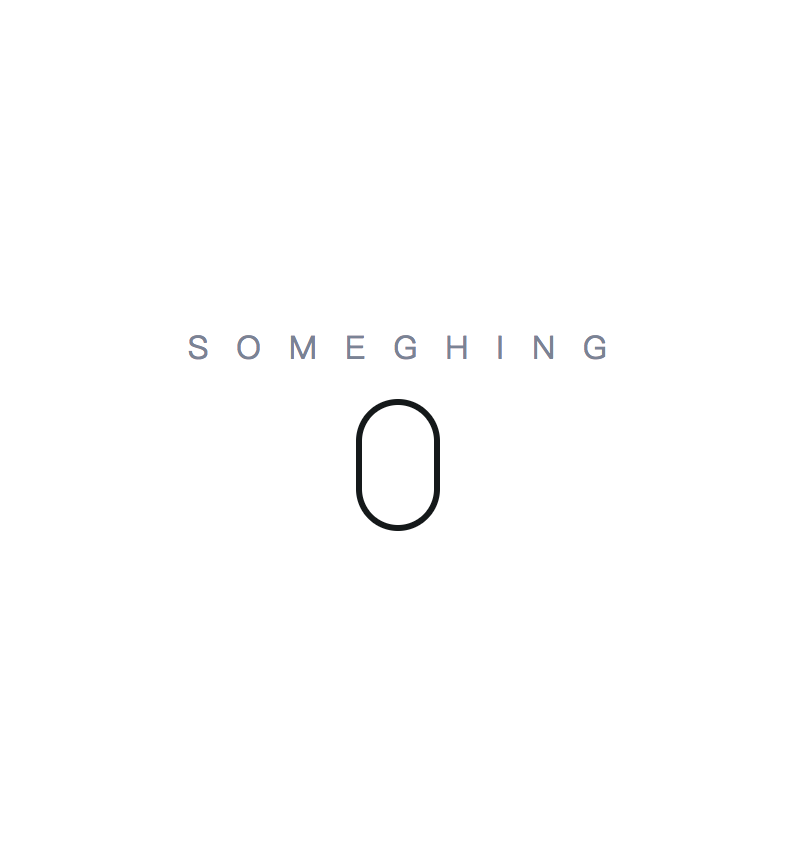
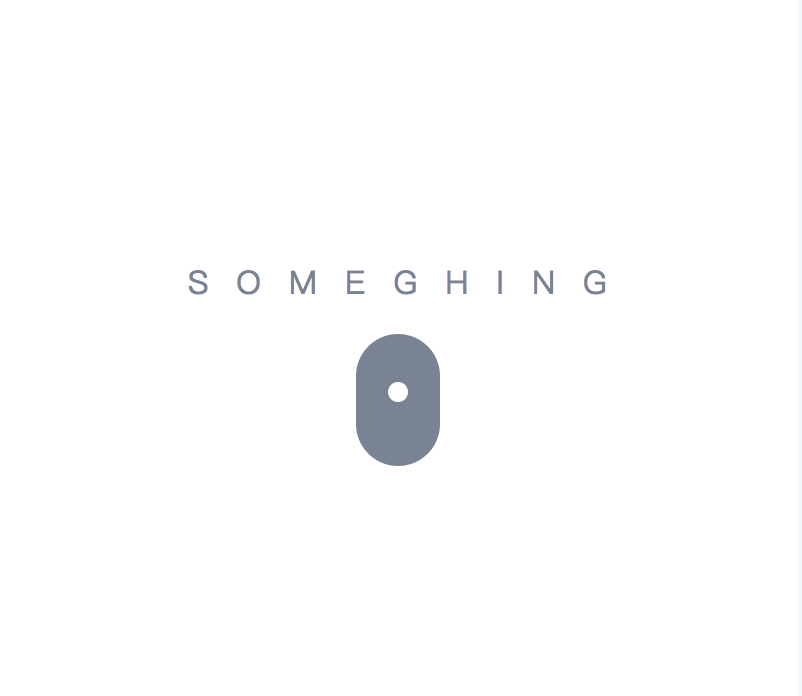
exe-10 - button-circle

diff --git a/exercise/exercise-10/exercise-10.css b/exercise/exercise-10/exercise-10.css
@@ -68,20 +68,44 @@ body {
     width: 36px;
     height: 60px;
     border-radius: 18px;
-    background: #fff;
+    background: rgba(0, 0, 0, 0);
     cursor: pointer;
-    box-shadow: 0 0 0 3px #15191A;
-}
-.button-right {
-    background: #7A8394;
-}
-.button-left:hover {
-    background: #15191A;
     box-shadow: 0 0 0 3px #fff;
 }
-.button-right:hover {
+.button-right {
+    box-shadow: 0 0 0 3px #7A8394;
+}
+.button-left:hover {
     background: #fff;
-    box-shadow: 0 0 0 3px #15191A;
+    
+}
+.button-right:hover {
+    background: #7A8394;
+    
+}
+/*-------------------------------------------------circle--*/
+.button-left:before, .button-right:before {
+    position: absolute;
+    left: 50%;
+    top: 10%;
+    margin-left: -5px;
+    width: 10px;
+    height: 10px;
+    border-radius: 50%;
+    content: "";
+    transition: all 1s ;
+    background: #fff;
+} 
+.button-right:before {
+    background: #7A8394;
+}
+/*-------------------------------------------------circle:hover--*/
+.button-left:hover:before, .button-right:hover:before{
+    margin-top: 15px;
+    background: #7A8394;
+}
+.button-right:hover:before {
+    background: #fff;
 }
 /*-------------------------------------------------text--*/
 .button-left:after, .button-right:after {
@@ -103,5 +127,5 @@ body {
     margin-left: -105px;
 }
 .button-right:hover:after {
-    color: #15191A;
+    color: #7A8394;
 }
